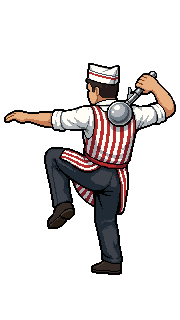
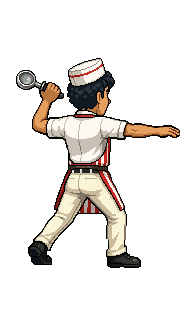
Turn the shaker jerk slightly forward without losing his identity
The first attempt at a more forward pose drifted the character — aged
him, added glasses, changed his trousers to green. Regenerated with
both the back-view pose and the bartender's own art as references, and
constrained the rotation to a subtle ~20 degrees, so he now shows a
bit of his face and side while still matching the established look
(dark hair, no glasses, white/cream trousers, red-striped apron).

Changed region(s): [[0.0278, 0.1562, 1.0, 0.875]]

diff --git a/soda-jerk-web/src/components/ShakerLevel.jsx b/soda-jerk-web/src/components/ShakerLevel.jsx
@@ -31,7 +31,7 @@ const SCOOP_BALL_MASK_SRC = ART_SRC('bonus-scoop-ball-mask.png')
 // translate()` in HAND_FRACTION units — percentages there resolve against
 // the element's own rendered box, not the containing block, so it lands
 // correctly regardless of the arena's aspect ratio.
-const JERK_HAND_FRACTION = { x: 0.81, y: 0.23 }
+const JERK_HAND_FRACTION = { x: 0.275, y: 0.293 }
 const JERK_WIDTH_PCT = 22
 
 // Same recolor trick as BonusLevel: an opaque tint on top with
